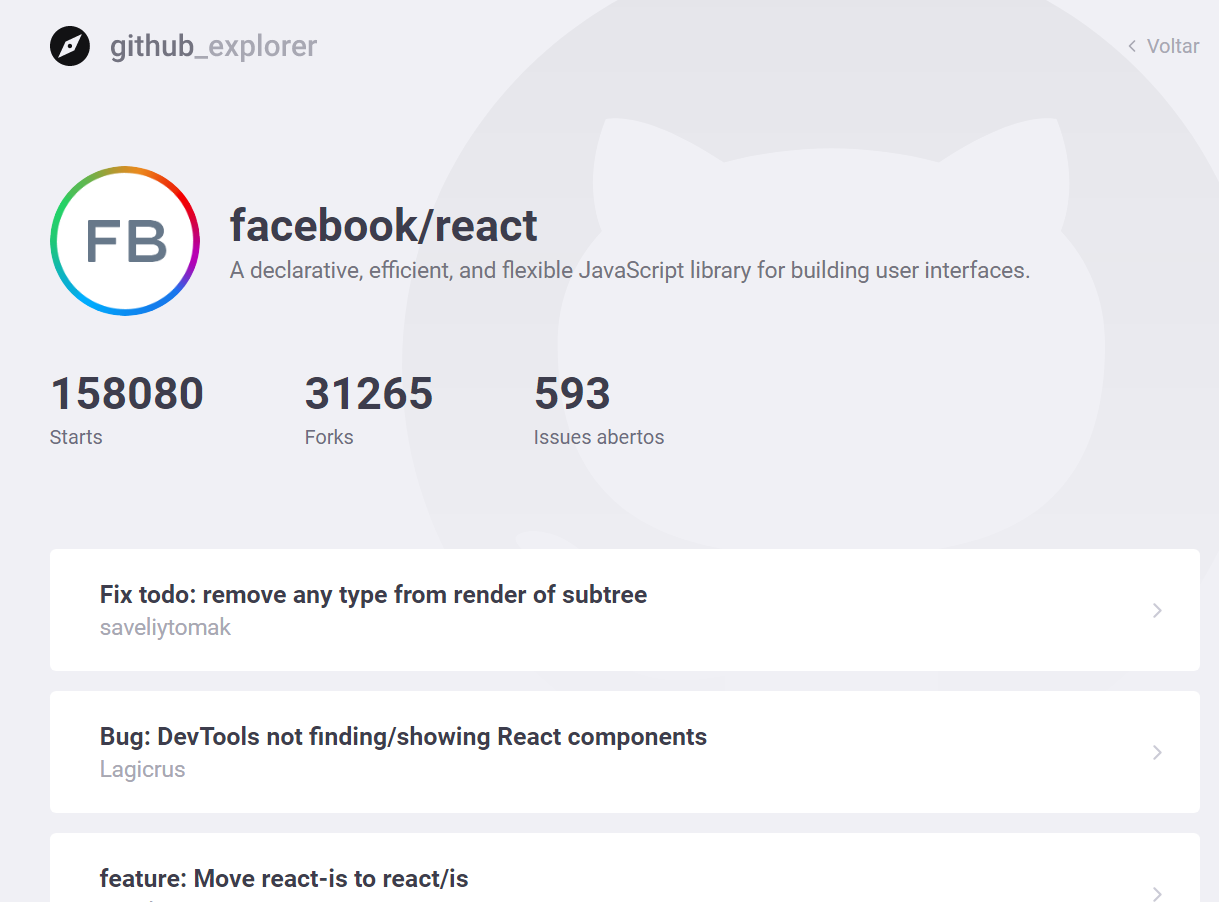
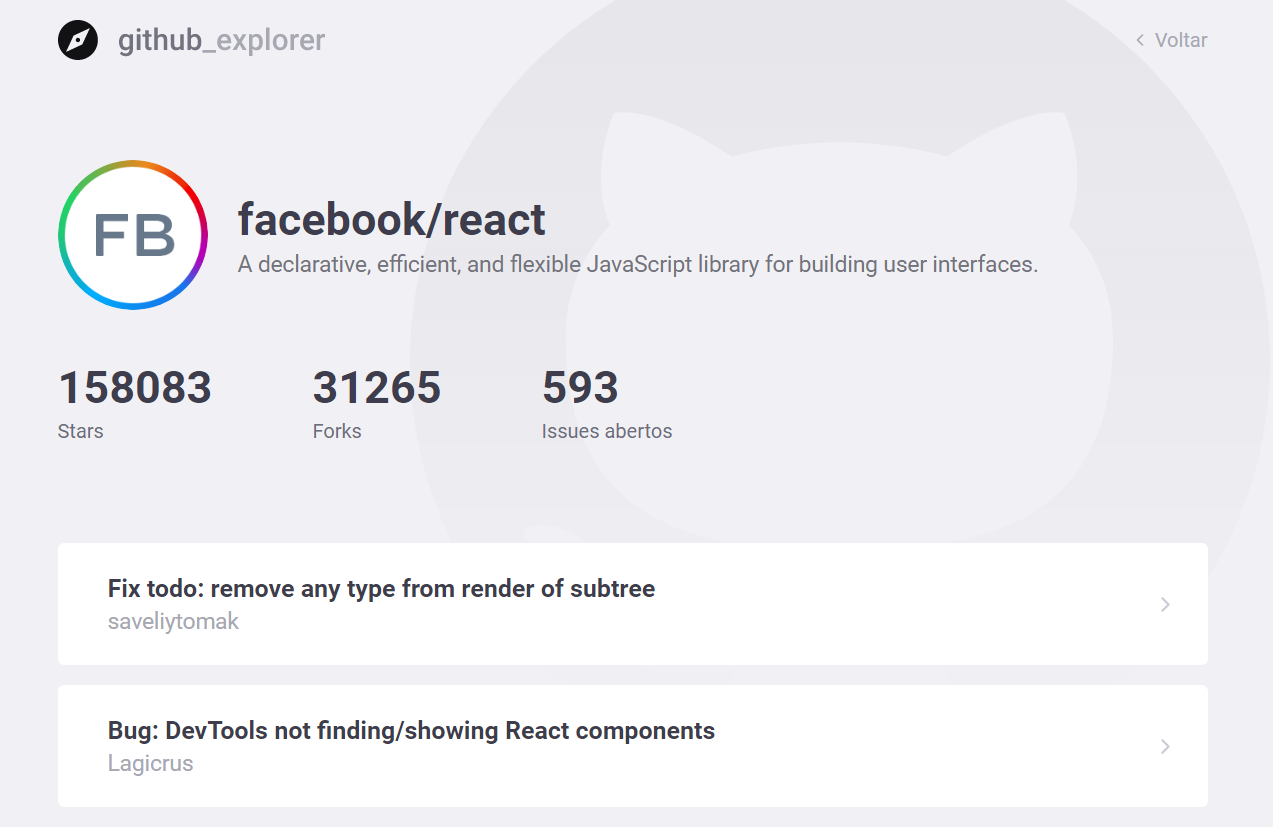
adicionada nova imagem de readme

diff --git a/github-explorer/src/pages/Repository/index.tsx b/github-explorer/src/pages/Repository/index.tsx
@@ -71,7 +71,7 @@ const Repository: React.FC = () => {
           <ul>
             <li>
               <strong>{repository.stargazers_count}</strong>
-              <span>Starts</span>
+              <span>Stars</span>
             </li>
             <li>
               <strong>{repository.forks_count}</strong>
